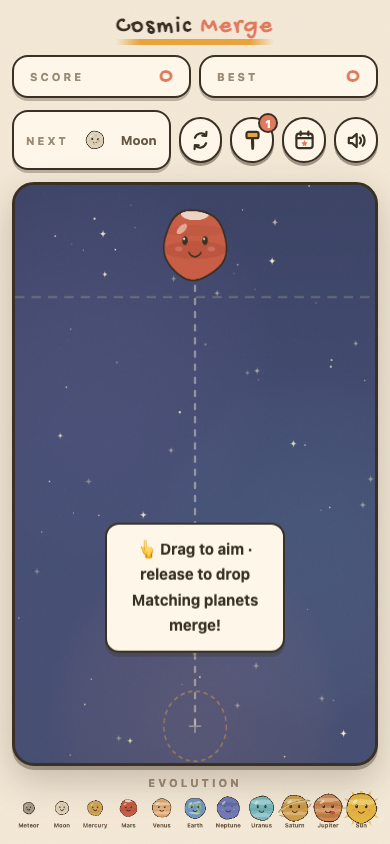
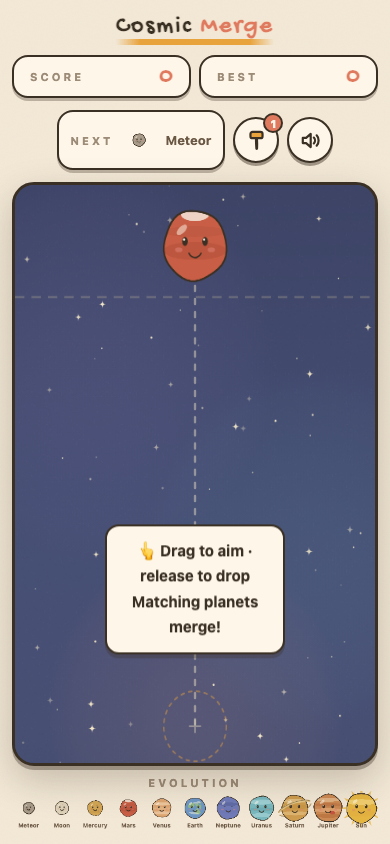
feat: remove daily challenge and swap (re-roll) button
Per user: the daily challenge mode is not needed, and the swap button
(re-pick the current planet) feels unfair — especially with a global
leaderboard coming.

- Remove the daily mode toggle, mode badge, per-day best storage, and
  daily markers in the leaderboard. Drop the mode field from
  LeaderboardEntry. (logic.ts PRNG/seed helpers kept — still unit-tested
  and reusable.)
- Remove the swap button + Game.swapNext.
- Trim now-unused strings (daily, dailyBest, swap) and .mode-badge CSS.
- Update tests (drop swapNext + leaderboard mode field).

Side toolbar is now just hammer + mute. 31 tests pass; tsc clean;
build boots with no JS errors.

diff --git a/src/main.ts b/src/main.ts
@@ -5,7 +5,6 @@ import { drawPlanet } from './render'
 import { isMuted, setMuted, startMusic } from './audio'
 import { planetName, STR } from './strings'
 import { shareCard } from './sharecard'
-import { dailySeed, mulberry32 } from './logic'
 import { addScore, loadLeaderboard, removeScore, type LeaderboardEntry } from './leaderboard'
 import { ads } from './ads'
 import { addHammer, getHammers, useHammer } from './inventory'
@@ -111,7 +110,7 @@ function renderLeaderboard() {
     const li = document.createElement('li')
     if (lastRank !== null && i === lastRank - 1) li.className = 'me'
     const left = document.createElement('span')
-    left.textContent = `${i + 1}. ${planetName(e.maxTier)}${e.mode === 'daily' ? ' 🗓' : ''}`
+    left.textContent = `${i + 1}. ${planetName(e.maxTier)}`
     const right = document.createElement('span')
     right.className = 'b-score'
     right.textContent = String(e.score)
@@ -127,51 +126,27 @@ function renderGameOver() {
   overTitleEl.textContent = STR.overTitle
   overScoreEl.innerHTML = STR.overScore(score)
   overEmojiEl.textContent = maxTier >= 10 ? '☀' : maxTier >= 8 ? '🪐' : '💫'
-  let sub = score >= best && score > 0 ? STR.overNewRecord(name) : STR.overNormal(name, best)
-  if (mode === 'daily') sub += ` · ${STR.dailyBest(Math.max(getDailyBest(), score))}`
+  const sub = score >= best && score > 0 ? STR.overNewRecord(name) : STR.overNormal(name, best)
   overSubEl.textContent = sub
   renderLeaderboard()
 }
-
-/* ── 模式：經典 / 每日挑戰 ── */
-type Mode = 'classic' | 'daily'
-let mode: Mode = 'classic'
 
 function todayKey(): string {
   const d = new Date()
   return `${d.getFullYear()}-${String(d.getMonth() + 1).padStart(2, '0')}-${String(d.getDate()).padStart(2, '0')}`
 }
 
-function getDailyBest(): number {
-  try {
-    return Number(localStorage.getItem(`cosmic-merge:daily-best:${todayKey()}`)) || 0
-  } catch {
-    return 0
-  }
-}
-
-function saveDailyBest(score: number) {
-  try {
-    const key = `cosmic-merge:daily-best:${todayKey()}`
-    if (score > getDailyBest()) localStorage.setItem(key, String(score))
-  } catch {
-    /* 私密模式忽略 */
-  }
-}
-
 /* ── 遊戲實例 ── */
 const game = new Game({
   onScore(score, best, maxTier) {
     popValue(scoreEl, score)
-    // 每日挑戰模式：最佳欄顯示今日最佳
-    bestEl.textContent = String(mode === 'daily' ? Math.max(getDailyBest(), score) : best)
+    bestEl.textContent = String(best)
     if (maxTier !== bestMergeTier) renderBestMerge(maxTier)
   },
   onNext: renderNext,
   onCombo: showCombo,
   onGameOver(score, best, maxTier) {
-    if (mode === 'daily') saveDailyBest(score)
-    lastEntry = { score, maxTier, date: todayKey(), mode }
+    lastEntry = { score, maxTier, date: todayKey() }
     lastRank = addScore(lastEntry)
     lastResult = { score, best, maxTier }
     reviveBtn.classList.toggle('hidden', game.reviveUsed || score === 0)
@@ -198,29 +173,7 @@ reviveBtn.addEventListener('click', async () => {
   overlayEl.classList.add('hidden')
 })
 
-/* ── 模式切換 ── */
-const modeBtn = $<HTMLButtonElement>('mode')
-const modeBadge = $<HTMLDivElement>('mode-badge')
-
-function applyMode() {
-  modeBtn.classList.toggle('active', mode === 'daily')
-  modeBadge.classList.toggle('hidden', mode !== 'daily')
-  modeBadge.textContent = `🗓 ${STR.daily}`
-  overlayEl.classList.add('hidden')
-  lastResult = null
-  renderBestMerge(0)
-  // 每日挑戰：日期種子 → 全世界今天同一套星球序列
-  game.restart(mode === 'daily' ? mulberry32(dailySeed()) : Math.random)
-}
-
-modeBtn.addEventListener('click', () => {
-  mode = mode === 'daily' ? 'classic' : 'daily'
-  applyMode()
-  modeBtn.blur()
-})
-
-/* ── 道具：換球 + 小錘子 ── */
-const swapBtn = $<HTMLButtonElement>('swap')
+/* ── 道具：小錘子 ── */
 const hammerBtn = $<HTMLButtonElement>('hammer')
 const hammerCountEl = $<HTMLSpanElement>('hammer-count')
 const hintEl = $<HTMLDivElement>('hint')
@@ -237,11 +190,6 @@ function exitSmashMode() {
   hammerBtn.classList.remove('armed')
   hintEl.classList.add('hidden')
 }
-
-swapBtn.addEventListener('click', () => {
-  game.swapNext()
-  swapBtn.blur()
-})
 
 hammerBtn.addEventListener('click', async () => {
   hammerBtn.blur()
@@ -281,8 +229,7 @@ $<HTMLButtonElement>('restart').addEventListener('click', () => {
   lastResult = null
   lastEntry = null
   exitSmashMode()
-  // 每日挑戰重開＝同一套今日序列
-  game.restart(mode === 'daily' ? mulberry32(dailySeed()) : undefined)
+  game.restart()
 })
 
 muteBtn.classList.toggle('muted', isMuted())
@@ -327,10 +274,7 @@ function applyStrings() {
   shareBtn.textContent = STR.share
   $<HTMLButtonElement>('restart').textContent = STR.restart
   muteBtn.setAttribute('aria-label', STR.mute)
-  modeBtn.setAttribute('aria-label', STR.daily)
-  modeBadge.textContent = `🗓 ${STR.daily}`
   reviveBtn.textContent = STR.revive
-  swapBtn.setAttribute('aria-label', STR.swap)
   hammerBtn.setAttribute('aria-label', STR.hammer)
   nextNameEl.textContent = planetName(lastNextTier)
   renderBestMerge(bestMergeTier)

diff --git a/index.html b/index.html
@@ -47,7 +47,6 @@
         </aside>
         <div id="stage" class="stage">
           <canvas id="game"></canvas>
-          <div id="mode-badge" class="mode-badge hidden">🗓</div>
           <div id="combo" class="combo" aria-live="polite"></div>
           <div id="tutorial" class="tutorial hidden"><p id="tutorial-text"></p></div>
           <div id="hint" class="tutorial hidden"><p id="hint-text"></p></div>
@@ -75,29 +74,12 @@
             <canvas id="next" width="120" height="120"></canvas>
             <span id="next-name" class="next-name"></span>
           </div>
-          <button id="swap" class="btn btn-ghost btn-icon" aria-label="Swap with next planet">
-            <svg viewBox="0 0 24 24" aria-hidden="true">
-              <path d="M6.6 9.4 A 6.3 6.3 0 0 1 17.2 7.1" />
-              <path d="M17.7 3.8 L17.4 7.6 L13.7 7.3" />
-              <path d="M17.4 14.6 A 6.3 6.3 0 0 1 6.8 16.9" />
-              <path d="M6.3 20.2 L6.6 16.4 L10.3 16.7" />
-            </svg>
-          </button>
           <button id="hammer" class="btn btn-ghost btn-icon" aria-label="Hammer (smash one planet)">
             <svg viewBox="0 0 24 24" aria-hidden="true">
               <rect x="6.2" y="3.8" width="11.6" height="6" rx="2" fill="var(--honey)" />
               <path d="M11.6 9.8 C11.5 13 11.6 16.4 11.9 19.6 C11.9 20.1 12.5 20.1 12.5 19.6 C12.7 16.4 12.6 13 12.4 9.8" fill="var(--honey)" />
             </svg>
             <span id="hammer-count" class="count">1</span>
-          </button>
-          <button id="mode" class="btn btn-ghost btn-icon" aria-label="Daily Challenge">
-            <svg viewBox="0 0 24 24" aria-hidden="true">
-              <rect x="4.2" y="5.4" width="15.6" height="14" rx="2.6" />
-              <path d="M4.5 9.7 H19.5" />
-              <path d="M8.3 3.4 V7" />
-              <path d="M15.7 3.4 V7" />
-              <path d="M12 11.6 l1 2 2.1 .4 -1.6 1.5 .4 2.1 -1.9 -1.1 -1.9 1.1 .4 -2.1 -1.6 -1.5 2.1 -.4 z" fill="var(--accent)" stroke="none" />
-            </svg>
           </button>
           <button id="mute" class="btn btn-ghost btn-icon" aria-label="Toggle sound">
             <svg class="icon-sound-on" viewBox="0 0 24 24" aria-hidden="true">

diff --git a/src/game.test.ts b/src/game.test.ts
@@ -121,25 +121,6 @@ describe('Game 整合（無頭物理模擬）', () => {
     expect(game.bodyCount).toBe(before - 1)
   })
 
-  it('換球 swapNext：current 與 next 互換', () => {
-    let lastNext = -1
-    const cb: GameCallbacks = {
-      onScore() {},
-      onNext(tier) {
-        lastNext = tier
-      },
-      onCombo() {},
-      onGameOver() {},
-    }
-    const game = new Game(cb)
-    const nextBefore = lastNext
-    game.swapNext()
-    // 互換後 onNext 回報的應該是原本的 current（可能與 next 相同階級，至少 callback 有觸發）
-    expect(lastNext).toBeGreaterThanOrEqual(0)
-    game.swapNext()
-    expect(lastNext).toBe(nextBefore) // 換兩次回到原狀
-  })
-
   it('幀率抖動不會把已落定的星球踢飛（固定步長積分）', () => {
     const { game } = makeGame()
     // 丟幾顆並讓它們落定

diff --git a/src/style.css b/src/style.css
@@ -220,30 +220,6 @@ body {
   color: var(--ink-soft);
 }
 
-/* ── 每日挑戰標記 ─────────────────── */
-.mode-badge {
-  position: absolute;
-  top: 10px;
-  left: 10px;
-  background: var(--honey);
-  border: 2px solid var(--ink);
-  border-radius: 999px;
-  padding: 4px 12px;
-  font-size: 13px;
-  font-weight: 900;
-  color: var(--ink);
-  box-shadow: 0 2px 0 rgba(59, 48, 36, 0.4);
-  pointer-events: none;
-}
-
-.mode-badge.hidden {
-  display: none;
-}
-
-.btn-ghost.active {
-  background: var(--honey);
-}
-
 /* ── Combo 提示 ───────────────────── */
 .combo {
   position: absolute;

diff --git a/src/leaderboard.ts b/src/leaderboard.ts
@@ -4,7 +4,6 @@ export interface LeaderboardEntry {
   maxTier: number
   /** YYYY-MM-DD */
   date: string
-  mode: 'classic' | 'daily'
 }
 
 const KEY = 'cosmic-merge:leaderboard'
@@ -54,11 +53,7 @@ export function addScore(entry: LeaderboardEntry): number | null {
 export function removeScore(entry: LeaderboardEntry): void {
   const board = loadLeaderboard()
   const i = board.findIndex(
-    e =>
-      e.score === entry.score &&
-      e.date === entry.date &&
-      e.mode === entry.mode &&
-      e.maxTier === entry.maxTier,
+    e => e.score === entry.score && e.date === entry.date && e.maxTier === entry.maxTier,
   )
   if (i < 0) return
   board.splice(i, 1)

diff --git a/src/strings.ts b/src/strings.ts
@@ -18,12 +18,9 @@ export const STR = {
   restart: 'Play Again',
   share: '📸 Share Score',
   shareDone: '✓ Card saved',
-  daily: 'Daily Challenge',
-  dailyBest: (s: number) => `Today's best: ${s}`,
   leaderboard: 'TOP SCORES',
   noScores: 'No scores yet — set the first record!',
   revive: '💫 Revive (Ad)',
-  swap: 'Swap with next planet',
   hammer: 'Hammer (smash one planet)',
   hammerHint: '🔨 Tap a planet to smash it (tap again to cancel)',
   tutorial: '👆 Drag to aim · release to drop<br>Matching planets merge!',

diff --git a/src/game.ts b/src/game.ts
@@ -167,14 +167,6 @@ export class Game {
     return false
   }
 
-  /** 換球：current 和 next 互換（不影響種子序列，每日挑戰也公平） */
-  swapNext() {
-    if (this.state === 'over') return
-    ;[this.currentTier, this.nextDropTier] = [this.nextDropTier, this.currentTier]
-    this.aim(this.aimX) // 半徑變了，重新夾住範圍
-    this.cb.onNext(this.nextDropTier)
-  }
-
   /** 玩家瞄準（邏輯座標 x） */
   aim(x: number) {
     const r = TIERS[this.currentTier].radius

diff --git a/src/leaderboard.test.ts b/src/leaderboard.test.ts
@@ -1,8 +1,8 @@
 import { describe, expect, it } from 'vitest'
 import { insertEntry, MAX_ENTRIES, type LeaderboardEntry } from './leaderboard'
 
-function entry(score: number, mode: 'classic' | 'daily' = 'classic'): LeaderboardEntry {
-  return { score, maxTier: 5, date: '2026-06-12', mode }
+function entry(score: number): LeaderboardEntry {
+  return { score, maxTier: 5, date: '2026-06-12' }
 }
 
 describe('排行榜 insertEntry', () => {
